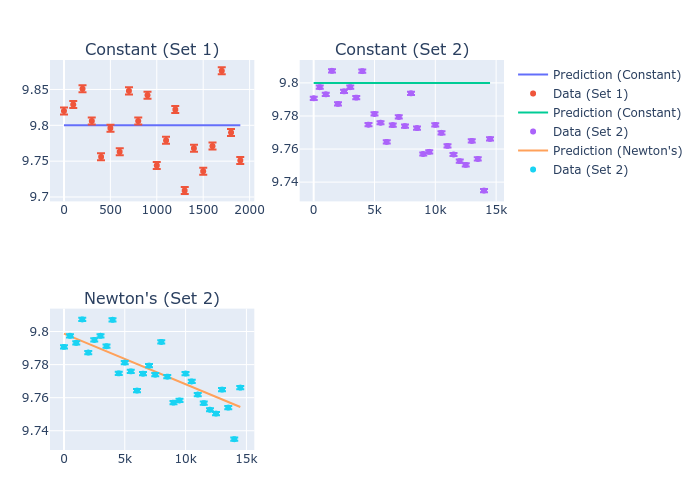
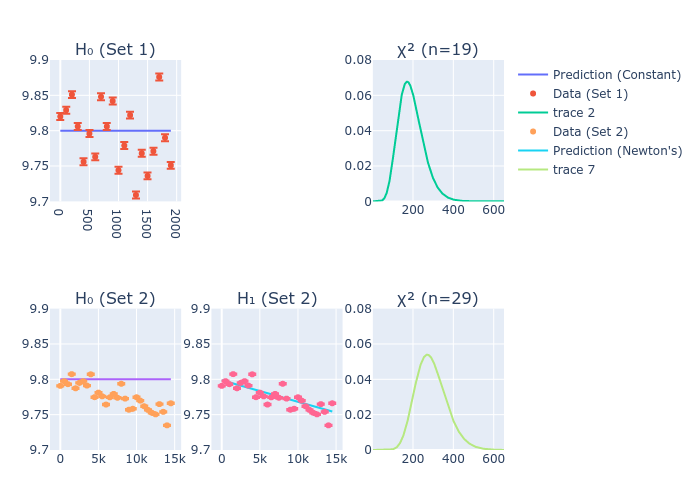
updated plots, included p-value calculations

diff --git a/Plots.html b/Plots.html
@@ -1,0 +1,34 @@
+<html>
+<head><meta charset="utf-8" /></head>
+<body>
+<div>
+    <script src="https://cdnjs.cloudflare.com/ajax/libs/mathjax/2.7.5/MathJax.js?config=TeX-AMS-MML_SVG"></script>
+    <script type="text/javascript">
+window.PlotlyConfig = {MathJaxConfig: 'local'};
+</script>
+<script src="https://cdn.plot.ly/plotly-2.3.0.min.js"></script>
+
+    <div
+        id=6b06be1f-e644-4db5-939f-64e952c01835
+        class="plotly-graph-div"
+        style="height:1300; width:4000;">
+    </div>
+    <script type="text/javascript">
+        
+        window.PLOTLYENV = window.PLOTLYENV || {}
+        
+        if (document.getElementById('6b06be1f-e644-4db5-939f-64e952c01835')) {
+    Plotly.newPlot(
+        '6b06be1f-e644-4db5-939f-64e952c01835',
+        [{"mode":"lines","xaxis":"x1","y":[9.8,9.8],"type":"scatter","name":"Prediction (Constant)","yaxis":"y1","x":[0,1900]},{"mode":"markers","xaxis":"x1","y":[9.82,9.829,9.851,9.806,9.756,9.796,9.763,9.848,9.806,9.842,9.744,9.779,9.822,9.709,9.768,9.736,9.771,9.876,9.79,9.751],"type":"scatter","name":"Data (Set 1)","error_y":{"value":0.05,"type":"percent"},"yaxis":"y1","x":[0.0,100.0,200.0,300.0,400.0,500.0,600.0,700.0,800.0,900.0,1000.0,1100.0,1200.0,1300.0,1400.0,1500.0,1600.0,1700.0,1800.0,1900.0]},{"xaxis":"x3","y":[0.0,3.4824694504627877e-17,1.199299228675849e-14,3.5808698151798195e-13,3.928738016355823e-12,2.4904249337928457e-11,1.1158333131341904e-10,3.934887415260198e-10,1.164525857213775e-9,3.014608037970877e-9,7.021902556967893e-9,1.5016817341355058e-8,2.99271900555026e-8,5.6212010768243693e-8,1.0038855553949409e-7,1.7165516671621406e-7,2.8260920702285104e-7,4.5005704205720893e-7,6.959103555192048e-7,1.0481607424239936e-6,1.5419224107725571e-6,2.220530990174214e-6,3.1366849221657225e-6,4.35361470539316e-6,5.946264393458557e-6,8.002469189761798e-6,1.062411274085707e-5,1.3928247780892881e-5,1.8048164103480483e-5,2.3134388409470496e-5,2.935560137299244e-5,3.689945825571903e-5,4.5973300551992536e-5,5.680474743651939e-5,6.964215718363162e-5,8.475495020540994e-5,0.00010243378688934146,0.0001229905949802892,0.0001467584428238048,0.00017409125634756378,0.00020536337918629181,0.00024096897683640548,0.000281321287145175,0.0003268517207830594,0.00037800881660648414,0.00043525705798311157,0.0004990755572159148,0.0005699566161609715,0.0006484041719835133,0.0007349321377353767,0.000830062648063996,0.0009343242208791732,0.0010482498462106222,0.0011723750137895565,0.0013072356910848253,0.0014533662636225283,0.0016112974494226905,0.001781554199302608,0.0019646535946298968,0.002161102753865057,0.002371396758919775,0.0025960166119799446,0.002835427233007621,0.0030900755076507564,0.0033603883947598686,0.0036467711021430462,0.0039496053385914345,0.004269247649582137,0.004606027843420544,0.0049602475139246234,0.005332178665085077,0.005722062442462563,0.006130107975410607,0.006556491333545235,0.007001354600223271,0.007464805065144442,0.007946914537561444,0.008447718780969369,0.008967217069554743,0.00950537186611659,0.010062108620629591,0.010637315688104684,0.011230844363916031,0.011842509034306966,0.012472087439361935,0.013119321045337255,0.013783915522880918,0.014465541327341555,0.015163834377068055,0.01587839682533492,0.016608797921293383,0.01735457495514399,0.018115234282552777,0.018890252423188838,0.01967907722814521,0.02048112911091759,0.02129580233655322,0.02212246636354713,0.02296046723305082,0.023809128999969724,0.024667755200559326,0.025535630351182566,0.02641202147296416,0.02729617963716761,0.028187341526226824,0.029084731005486735,0.02998756070084162,0.03089503357760821,0.03180634451612923,0.03272068187977164,0.033637229071161075,0.034555166072678715,0.03547367096743754,0.03639192143715135,0.03730909623350978,0.03822437661987603,0.03913694778032934,0.04004600019328077,0.04095073096709809,0.041850345135381516,0.04274405690973804,0.04363109088810442,0.04451068321687058,0.04538208270525192,0.04624455189055309,0.047097368053155425,0.04793982418024414,0.04877122987747218,0.04959091222793045,0.050398216597963195,0.05119250738952898,0.051973168738963564,0.05273960516215007,0.0534912421462443,0.05422752668823839,0.05494792778077513,0.055651936845746174,0.056339068116322014,0.05700885896816959,0.05766087020071295,0.05829468626938635,0.05890991546991514,0.05950619007573992,0.060083166429771614,0.060640524991731726,0.06117797034239175,0.06169523114607863,0.06219206007286092,0.06266823368187105,0.06312355226725463,0.06355783966826768,0.06397094304506655,0.06436273262175503,0.06473310139826692,0.06508196483267174,0.06540926049549634,0.06571494769765558,0.06599900709358145,0.06626144026113286,0.06650226925985706,0.06672153616915885,0.06691930260791656,0.06709564923706225,0.06725067524662047,0.06738449782867366,0.06749725163769377,0.0675890882396487,0.06766017555125993,0.06771069727075277,0.06774085230140481,0.06775085416916081,0.06774093043554298,0.06771132210704624,0.06766228304216713,0.06759407935717344,0.06750698883167922,0.06740130031504774,0.06727731313460154,0.06713533650657533,0.06697568895070459,0.06679869770929904,0.0666046981716071,0.06639403330423443,0.06616705308833672,0.06592411396426505,0.06566557828429996,0.06539181377406919,0.06510319300320372,0.0648000928657461,0.06448289407078706,0.06415198064376666,0.06380773943883995,0.06345055966266955,0.06308083240997267,0.06269895021111488,0.06230530659200934,0.06190029564654797,0.06148431162175879,0.06105774851585348,0.06062099968930018,0.06017445748902699,0.05971851288583598,0.05925355512507996,0.058779971390630084,0.058298146482138234,0.05780846250557496,0.05731129857700285,0.05680703053952339,0.05629603069331686,0.055778667538676004,0.055255305531916106,0.054726304854028955,0.054192021191931505,0.053652805532146235,0.05310900396673719,0.05256095751131197,0.05200900193488985,0.05145346760142423,0.05089467932275888,0.050332956222787974,0.049768611612581795,0.049201952876233246,0.048633281367173015,0.04806289231469624,0.047491074740438136,0.04691811138453158,0.04634427864117658,0.04576984650334775,0.04519507851636422,0.044620231740044446,0.0440455567191666,0.043471297461955626,0.042897691426316706,0.04232496951353592,0.04175335606916959,0.04118306889084457,0.04061431924269387,0.04004731187615377,0.039482245056850766,0.03891931059731001,0.03835869389521896,0.0378005739769845,0.037245123546324206,0.03669250903763703,0.036142890673902736,0.035596422528863164,0.03505325259324379,0.03451352284477781,0.033977369321800364,0.03344492220018578,0.032916305873404744,0.03239163903548499,0.031871034766663114,0.031354600621521345,0.03084243871940847,0.03033464583694918,0.029831313502452377,0.029332528092034002,0.0288383709272758,0.028348918374247512,0.02786424194372452,0.027384408392440017,0.026909479825215146,0.02643951379781689,0.02597456342039893,0.025514677461385707,0.02505990045166626,0.024610272788968848,0.02416583084229342,0.02372660705628407,0.023292630055428382,0.022863924747976577,0.022440512429477397,0.022022410885833305,0.021609634495782327,0.021202194332718197,0.020800098265765767,0.02040335106003265,0.020011954475962827,0.01962590736772235,0.019245205780551125,0.018869843047019542,0.018499809882132085,0.01813509447722443,0.0177756825926043,0.01742155764888971,0.017072700817002465,0.016729091106777484,0.01639070545415254,0.016057518806906076,0.01572950420891357,0.015406632882896648,0.015088874311641364,0.014776196317665377,0.01446856514131644,0.01416594551728682,0.013868300749531466,0.013575592784579508,0.013287782283231343,0.013004828690635843,0.012726690304743885,0.012453324343137152,0.012184687008232255,0.011920733550862778,0.011661418332243207,0.011406694884320348,0.011156515968519787,0.010910833632895876,0.0106695992676956,0.01043276365934793,0.010200277042891162,0.009972089152852515,0.009748149272594828,0.009528406282146462,0.00931280870453164,0.009101304750618898,0.008893842362506708,0.008690369255465607,0.008490832958457182,0.00829518085325089,0.008103360212160035,0.00791531823441915,0.007731002081225155,0.00755035890946533,0.007373335904155392,0.007199880309611519,0.00702993945938008,0.00686346080494948,0.006700391943268518,0.006540680643095825,0.006384274870205283,0.006231122811472087,0.006081172897864508,0.005934373826366245,0.0057906745808543126,0.00565002445195745,0.005512373055919801,0.005377670352494724,0.005245866661893391,0.005116912680812645,0.004990759497566659,0.004867358606346377,0.00474666192063094,0.004628621785774794,0.004513190990794049,0.004400322779375505,0.0042899708601312385,0.004182089416121668,0.004076633113669542,0.00397355711048698,0.0038728170631376186,0.0037743691338551957,0.003678169996739976,0.003584176843353838,0.003492347387734537,0.0034026398708494484,0.0033150130645084775,0.0032294262747557183,0.0031458393447589285,0.0030642126572155166,0.0029845071362935042,0.0029066842491253177,0.002830706006872104,0.002756534965375773,0.0026841342254155798,0.002613467432585796,0.0025444987768104476,0.0024771929915109116,0.0024115153524416643,0.0023474316762091183,0.0022849083184881937,0.002223912171950733,0.0021644106639196674,0.0021063717537623816,0.002049763930036359,0.0019945562073999095,0.0019407181233002974,0.0018882197344513556,0.001837031613112258,0.0017871248431787748,0.0017384710160980635,0.0016910422266176053,0.0016448110683786623,0.0015997506293642645,0.0015558344872114035,0.0015130367043968526,0.0014713318233056303,0.001430694861190914,0.001391101305033863,0.0013525271063115063,0.0013149486756806337,0.0012783428775852332,0.0012426870247948594,0.0012079588728809694,0.001174136614638022,0.0011411988744559106,0.0011091247026499707,0.0010778935697546368,0.0010474853607865399,0.001017880369482591,0.0009890592925184268,0.0009610032237122754,0.0009336936482191732,0.0009071124367201962,0.0008812418396111719,0.0008560644811951665,0.0008315633538827873,0.0008077218124042091,0.0007845235680366129,0.0007619526828505467,0.0007399935639785735,0.000718630957909349,0.000697849944810156,0.0006776359328807388,0.0006579746527411209,0.0006388521518559677,0.0006202547889978674,0.0006021692287517997,0.0005845824360629125,0.0005674816708295807,0.0005508544825436328,0.0005346887049794522,0.0005189724509335951,0.0005036941070164178,0.0004888423284971071,0.00047440603420341074,0.0004603744014772355,0.0004467368611872105,0.0004334830927992025,0.0004206030195056757,0.000408086803414721,0.00039592484079946166,0.000384107757408493,0.0003726264038379191,0.0003614718509654742,0.00035063538544716065,0.0003401085052767386,0.0003298829154083675,0.0003199505234426149,0.0003103034353759968,0.00030093395141416254,0.0002918345618487636,0.0002829979429980148,0.0002744169532108958,0.00026608462893489037,0.00025799418084713284,0.0002501389900487617,0.00024251260432226723,0.00023510873445156498,0.00022792125060449287,0.00022094417877740652,0.00021417169730149617,0.00020759813341043586,0.0002012179598689376,0.00019502579166175623,0.00018901638274267397,0.00018318462284295516,0.00017752553433875496,0.00017203426917693592,0.0001667061058587284,0.00016153644648066013,0.00015652081383215022,0.00015165484854916231,0.0001469343063232891,0.000142355055165628,0.00013791307272480408,0.00013360444365847284,0.0001294253570576387,0.00012537210392310965,0.00012144107469340195,0.00011762875682340678,0.000113931732413117,0.00011034667588571543,0.00010687035171431877,0.00010349961219666591,0.00010023139527704361,9.7062722414732e-5,9.399069649825912e-5,9.101249980474943e-5,8.812539200365077e-5,8.532670820413003e-5,8.261385704542118e-5,7.998431882941884e-5,7.743564369480867e-5,7.496544983202864e-5,7.257142173836264e-5,7.025130851246445e-5,6.800292218762118e-5,6.58241361030657e-5,6.371288331265281e-5,6.166715503022133e-5,5.9684999110965645e-5,5.776451856814982e-5,5.590387012450119e-5,5.4101262797626436e-5,5.2354956518802024e-5,5.0663260784493046e-5,4.90245333399659e-5,4.7437178894364654e-5,4.589964786662793e-5,4.4410435161633185e-5,4.296807897595819e-5,4.1571159632661574e-5,4.0218298444489106e-5,3.890815660492088e-5,3.763943410648384e-5,3.641086868575888e-5,3.522123479452288e-5,3.406934259647276e-5,3.2954036988985656e-5,3.187419664938046e-5,3.082873310515006e-5,2.9816589827645337e-5,2.8836741348698196e-5,2.788819239967939e-5,2.6969977072495993e-5,2.6081158002039783e-5,2.5220825569607613e-5,2.4388097126822153e-5,2.358211623958925e-5,2.2802051951637294e-5,2.2047098067190237e-5,2.1316472452335565e-5,2.060941635465549e-5,1.9925193740697445e-5,1.926309065086877e-5,1.8622414571346445e-5,1.800249382260216e-5,1.7402676964149617e-5,1.6822332215128497e-5,1.626084689034784e-5,1.5717626851417513e-5,1.5192095972605156e-5,1.4683695621062407e-5,1.4191884151071386e-5,1.3716136411970155e-5,1.325594326942156e-5,1.2810811139698067e-5,1.238026153666121e-5,1.196383063112094e-5,1.1561068822267573e-5,1.1171540320874214e-5,1.0794822743975228e-5,1.0430506720731967e-5,1.0078195509203196e-5,9.73750462374435e-6,9.408061472764867e-6,9.089505006579754e-6,8.781485375096738e-6,8.483663595086308e-6,8.19571122678794e-6,7.917310059610581e-6,7.648151806691838e-6,7.387937808085082e-6,7.136378742349124e-6,6.8931943463206206e-6,6.658113142853774e-6,6.430872176317659e-6,6.211216755645949e-6,5.99890020473867e-6,5.793683620020729e-6,5.595335634965942e-6,5.4036321914005126e-6,5.2183563174039455e-6,5.039297911629875e-6,4.866253533873767e-6,4.699026201718254e-6,4.5374251930914094e-6,4.3812658545770606e-6,4.230369415320211e-6,4.084562806374731e-6,3.9436784853438825e-6,3.8075542661683576e-6,3.6760331539199264e-6,3.5489631844623323e-6,3.426197268844798e-6,3.3075930422965304e-6,3.1930127176943155e-6,3.082322943378351e-6,2.975394665194676e-6,2.8721029926458155e-6,2.772327069034066e-6,2.675949945485068e-6,2.5828584587421056e-6,2.4929431126244013e-6,2.406097963045615e-6,2.322220506491226e-6,2.241211571856385e-6,2.162975215548269e-6,2.087418619759532e-6,2.014451993822016e-6,1.9439884785521328e-6,1.8759440535018528e-6,1.8102374470314618e-6,1.7467900491224818e-6,1.6855258268514512e-6,1.6263712424472297e-6,1.569255173856771e-6,1.514108837746213e-6,1.4608657148661805e-6,1.4094614777121683e-6,1.3598339204126631e-6,1.3119228907796279e-6,1.2656702244577036e-6,1.2210196811102383e-6,1.1779168825820338e-6,1.1363092529802555e-6,1.0961459606166839e-6,1.0573778617560198e-6,1.0199574461164918e-6,9.838387840705817e-7,9.489774754950452e-7,9.153306002209479e-7,8.828566700357535e-7,8.515155821908713e-7,8.212685743694393e-7,7.920781810703148e-7,7.639081913655841e-7,7.367236079900778e-7,7.104906077225631e-7,6.85176503019481e-7,6.607497048631569e-7,6.371796867875701e-7,6.144369500458011e-7,5.924929898843107e-7,5.713202628902498e-7,5.50892155378922e-7,5.311829527895355e-7,5.121678100582766e-7,4.938227229386464e-7,4.76124500239904e-7,4.5905073695527327e-7,4.425797882524476e-7,4.266907442997086e-7,4.113634059017646e-7,3.9657826092020305e-7,3.823164614541541e-7,3.6855980175752616e-7,3.5529069686985597e-7,3.424921619384991e-7,3.301477922105705e-7,3.1824174367365927e-7,3.0675871432499396e-7,2.9568392604935117e-7,2.8500310708654535e-7,2.747024750699931e-7,2.647687206183108e-7,2.5518899146253705e-7,2.4595087709203945e-7,2.370423939026874e-7,2.2845197083141282e-7],"type":"scatter","yaxis":"y3","x":[1,2,3,4,5,6,7,8,9,10,11,12,13,14,15,16,17,18,19,20,21,22,23,24,25,26,27,28,29,30,31,32,33,34,35,36,37,38,39,40,41,42,43,44,45,46,47,48,49,50,51,52,53,54,55,56,57,58,59,60,61,62,63,64,65,66,67,68,69,70,71,72,73,74,75,76,77,78,79,80,81,82,83,84,85,86,87,88,89,90,91,92,93,94,95,96,97,98,99,100,101,102,103,104,105,106,107,108,109,110,111,112,113,114,115,116,117,118,119,120,121,122,123,124,125,126,127,128,129,130,131,132,133,134,135,136,137,138,139,140,141,142,143,144,145,146,147,148,149,150,151,152,153,154,155,156,157,158,159,160,161,162,163,164,165,166,167,168,169,170,171,172,173,174,175,176,177,178,179,180,181,182,183,184,185,186,187,188,189,190,191,192,193,194,195,196,197,198,199,200,201,202,203,204,205,206,207,208,209,210,211,212,213,214,215,216,217,218,219,220,221,222,223,224,225,226,227,228,229,230,231,232,233,234,235,236,237,238,239,240,241,242,243,244,245,246,247,248,249,250,251,252,253,254,255,256,257,258,259,260,261,262,263,264,265,266,267,268,269,270,271,272,273,274,275,276,277,278,279,280,281,282,283,284,285,286,287,288,289,290,291,292,293,294,295,296,297,298,299,300,301,302,303,304,305,306,307,308,309,310,311,312,313,314,315,316,317,318,319,320,321,322,323,324,325,326,327,328,329,330,331,332,333,334,335,336,337,338,339,340,341,342,343,344,345,346,347,348,349,350,351,352,353,354,355,356,357,358,359,360,361,362,363,364,365,366,367,368,369,370,371,372,373,374,375,376,377,378,379,380,381,382,383,384,385,386,387,388,389,390,391,392,393,394,395,396,397,398,399,400,401,402,403,404,405,406,407,408,409,410,411,412,413,414,415,416,417,418,419,420,421,422,423,424,425,426,427,428,429,430,431,432,433,434,435,436,437,438,439,440,441,442,443,444,445,446,447,448,449,450,451,452,453,454,455,456,457,458,459,460,461,462,463,464,465,466,467,468,469,470,471,472,473,474,475,476,477,478,479,480,481,482,483,484,485,486,487,488,489,490,491,492,493,494,495,496,497,498,499,500,501,502,503,504,505,506,507,508,509,510,511,512,513,514,515,516,517,518,519,520,521,522,523,524,525,526,527,528,529,530,531,532,533,534,535,536,537,538,539,540,541,542,543,544,545,546,547,548,549,550,551,552,553,554,555,556,557,558,559,560,561,562,563,564,565,566,567,568,569,570,571,572,573,574,575,576,577,578,579,580,581,582,583,584,585,586,587,588,589,590,591,592,593,594,595,596,597,598,599,600,601,602,603,604,605,606,607,608,609,610,611,612,613,614,615,616,617,618,619,620,621,622,623,624,625,626,627,628,629,630,631,632,633,634,635,636,637,638,639,640,641,642,643,644,645,646,647,648,649,650,651]},{"showlegend":false,"mode":"lines","xaxis":"x4","y":[9.8,9.8],"type":"scatter","name":"Prediction (Constant)","yaxis":"y4","x":[0,14500]},{"mode":"markers","xaxis":"x4","y":[9.7907,9.7974,9.7931,9.8073,9.7873,9.7949,9.7974,9.7911,9.8071,9.7747,9.7812,9.7759,9.7643,9.7745,9.7794,9.7739,9.7937,9.7727,9.757,9.7583,9.7746,9.7698,9.7619,9.7567,9.7527,9.7504,9.7649,9.754,9.7349,9.7661],"type":"scatter","name":"Data (Set 2)","error_y":{"value":0.01,"type":"percent"},"yaxis":"y4","x":[0.0,500.0,1000.0,1500.0,2000.0,2500.0,3000.0,3500.0,4000.0,4500.0,5000.0,5500.0,6000.0,6500.0,7000.0,7500.0,8000.0,8500.0,9000.0,9500.0,10000.0,10500.0,11000.0,11500.0,12000.0,12500.0,13000.0,13500.0,14000.0,14500.0]},{"mode":"lines","xaxis":"x5","y":[9.798741705155923,9.754339479453902],"type":"scatter","name":"Prediction (Newton's)","yaxis":"y5","x":[0,14500]},{"showlegend":false,"mode":"markers","xaxis":"x5","y":[9.7907,9.7974,9.7931,9.8073,9.7873,9.7949,9.7974,9.7911,9.8071,9.7747,9.7812,9.7759,9.7643,9.7745,9.7794,9.7739,9.7937,9.7727,9.757,9.7583,9.7746,9.7698,9.7619,9.7567,9.7527,9.7504,9.7649,9.754,9.7349,9.7661],"type":"scatter","name":"Data (Set 2)","error_y":{"value":0.01,"type":"percent"},"yaxis":"y5","legendgroup":"group2","x":[0.0,500.0,1000.0,1500.0,2000.0,2500.0,3000.0,3500.0,4000.0,4500.0,5000.0,5500.0,6000.0,6500.0,7000.0,7500.0,8000.0,8500.0,9000.0,9500.0,10000.0,10500.0,11000.0,11500.0,12000.0,12500.0,13000.0,13500.0,14000.0,14500.0]},{"xaxis":"x6","y":[0.0,5.621896045206072e-29,6.195452450389611e-25,1.4047217320090823e-22,6.494541876023978e-21,1.2563740943506338e-19,1.400719163921311e-18,1.0676232092030096e-17,6.160196512082298e-17,2.8736832424724026e-16,1.1335750902163448e-15,3.904242812575035e-15,1.2021749310298004e-14,3.3693131563487634e-14,8.716053336961218e-14,2.1043049205158633e-13,4.783895840457717e-13,1.0315912834650594e-12,2.1228109543709723e-12,4.18978164599148e-12,7.965407422698748e-12,1.4640260615308805e-11,2.6096351650124964e-11,4.5236049114338686e-11,7.643564235822817e-11,1.2615938103110846e-10,2.0377687881622485e-10,3.226344961937668e-10,5.014396634828442e-10,7.660259952466065e-10,1.1515763859951268e-9,1.7053909527783662e-9,2.4902965742656106e-9,3.588804725491552e-9,5.108134167807519e-9,7.18622466039457e-9,9.998877041875889e-9,1.3768163613086812e-8,1.877226055890542e-8,2.5356861004140958e-8,3.394833303657902e-8,4.506879148777406e-8,5.935325528770185e-8,7.756906366429487e-8,1.0063772421948571e-7,1.2965936387287037e-7,1.6593994973431654e-7,2.110214410795658e-7,2.667150257110629e-7,3.3513758406467525e-7,4.1875151246877063e-7,5.204080229950335e-7,6.433940214023926e-7,7.914826468306116e-7,9.689875372337779e-7,1.1808208631616873e-6,1.432555149524097e-6,1.7304888805514177e-6,2.081715857455008e-6,2.4941982514643226e-6,2.976843267163104e-6,3.539583302560448e-6,4.193459463320453e-6,4.950708259250197e-6,5.8248512817274985e-6,6.830787631457862e-6,7.984888837006463e-6,9.305095976174866e-6,1.0811018684701729e-5,1.252403571017306e-5,1.4467396643635643e-5,1.6666324437415118e-5,1.9148118295232134e-5,2.1942256500063866e-5,2.5080498726475303e-5,2.8596987367493107e-5,3.252834739165198e-5,3.6913784233723185e-5,4.179517921294464e-5,4.721718196539437e-5,5.3227299372552224e-5,5.987598046613472e-5,6.721669678999158e-5,7.530601770324337e-5,8.420368011491205e-5,9.397265214903917e-5,0.00010467919025065425,0.00011639288925691804,0.0001291867249742369,0.00014313708882105923,0.00015832381411733085,0.00017483019362508103,0.0001927429879702435,0.00021215242460343483,0.00023315218698688779,0.0002558393937259308,0.0002803145673961357,0.00030668159285139834,0.00033504766483357507,0.0003655232247407044,0.0003982218864481546,0.0004332603511150092,0.0004707583109465437,0.0005108383419225037,0.0005536257855399193,0.0005992486196582408,0.0006478373185733874,0.000699524702485828,0.0007544457765657687,0.0008127375598558235,0.0008745389042880249,0.0009399903041275024,0.001009233696189537,0.00108241225120982,0.0011596701567794631,0.001241152392286588,0.001327004496334904,0.0014173723271366859,0.0015124018164026593,0.0016122387172746015,0.0017170283468678031,0.0018269153240098417,0.0019420433027794173,0.0020625547024641874,0.0021885904345695607,0.002320289627521379,0.0024577893497140877,0.0026012243315626273,0.0027507266872206977,0.0029064256366302687,0.003068447228567454,0.0032369140653477836,0.0034119450298500283,0.0035936550155116335,0.0037821546599408388,0.003977550082780718,0.004179942628448552,0.004389428614360517,0.004606099085236417,0.004830039574062356,0.0050613298702709185,0.0053000437956784935,0.005546248988698341,0.005800006697325366,0.006061371581365052,0.006330391524354254,0.006607107455595739,0.0068915531827019325,0.007183755235015812,0.0074837327182488604,0.007791497180647396,0.00810705249096929,0.008430394728523742,0.008761512085496765,0.009100384781755072,0.00944698499229101,0.00980127678744077,0.01016321608597828,0.010532750621157088,0.010909819919742924,0.011294355294050247,0.011686279846967088,0.012085508489924,0.01249194797373514,0.012905496932211729,0.013326045938422137,0.01375347757344613,0.014187666507446307,0.014628479592855195,0.015075775969452658,0.01552940718108672,0.0159892173037682,0.016455043084850005,0.016926714092981913,0.017404052878513186,0.01788687514399854,0.018374989924445948,0.01886819977693043,0.019366300979183508,0.01986908373675503,0.020376332398333155,0.020887825678796466,0.0214033368895642,0.02192263417580118,0.022445480760027316,0.022971635191676002,0.02350085160213978,0.02403287996483903,0.024567466359845955,0.025104353242594475,0.02564327971620678,0.0261839818069665,0.026726192742470983,0.027269643231996737,0.027814061748615414,0.028359174812602476,0.0289047072756846,0.029450382605678938,0.02999592317108296,0.030541050525181388,0.031085485689245077,0.03162894943440479,0.03217116256179303,0.03271184618055645,0.033250721983352154,0.03378751251895266,0.034321941461595194,0.03485373387672374,0.03538261648278426,0.03590831790874634,0.03643056894703814,0.03694910280159433,0.0374636553307308,0.037973965284574085,0.03847977453678661,0.038980828310344745,0.039476875397139136,0.03996766837118299,0.04045296379522747,0.04093252242059796,0.04140610938008033,0.04187349437369967,0.04233445184724917,0.04278876116344124,0.04323620676556614,0.043676578333559174,0.04410967093238944,0.044535285152698584,0.04495322724363018,0.045363309237804426,0.04576534906840546,0.04615917067836123,0.046544604121608796,0.04692148565644949,0.04728965783101026,0.04764896956083964,0.04799927619867675,0.04834043959644367,0.04867232815952127,0.04899481689337864,0.04930778744263621,0.04961112812265173,0.04990473394372701,0.05018850662804224,0.05046235461943208,0.0507261930861263,0.05097994391658398,0.051223535708558005,0.05145690375153257,0.05167999000268247,0.05189274305650894,0.05209511810831147,0.05228707691166046,0.052468587730039574,0.052639625282831004,0.052800170685820304,0.05295021138640093,0.0530897410936614,0.05321875970354065,0.05333727321923926,0.053445293667076205,0.05354283900798207,0.053629933044821054,0.0537066053257348,0.05377289104370169,0.0538288309325053,0.053874471159305895,0.053909863214008126,0.05393506379561786,0.05395013469577968,0.0539551426796858,0.053950159364545607,0.053935261095803176,0.05391052882128859,0.053876047963486356,0.053831908290102364,0.053778203783107874,0.05371503250643665,0.053642496472508454,0.053560701507748734,0.053469757117271775,0.05336977634889073,0.05326087565661461,0.05314317476378892,0.05301679652603282,0.05288186679412165,0.05273851427696025,0.05258687040478812,0.05242706919275341,0.052259247104989116,0.05208354291931977,0.051900097592723786,0.05170905412767119,0.05151055743945321,0.05130475422461507,0.0510917928305994,0.05087182312670326,0.05064499637644725,0.050411465111450844,0.050171383006904095,0.049924904758720696,0.04967218596245418,0.04941338299405347,0.04914865289253106,0.048878153244611595,0.048602042071425496,0.04832047771730744,0.04803361874075584,0.04774162380760493,0.047444651586458,0.047142860646425165,0.04683640935720649,0.0465254557915565,0.04621015763016291,0.04589067206896898,0.04556715572896461,0.0452397645684687,0.04490865379792132,0.04457397779720097,0.04423589003547963,0.04389454299362407,0.04355008808915011,0.043202675603732484,0.04285245461327076,0.04249957292050877,0.04214417699020269,0.04178641188682931,0.04142642121482515,0.041064347061343126,0.040700329941512084,0.04033450874618232,0.0399670206921374,0.03959800127475138,0.03922758422306804,0.03885590145727728,0.03848308304856176,0.038109257181285515,0.03773455011749424,0.037359086163696285,0.03698298763989077,0.036606374850809496,0.03622936605933637,0.03585207746206841,0.03547462316698031,0.035097115173154066,0.034719663352534416,0.03434237543366909,0.033965356987393364,0.03358871141441673,0.033212539934769324,0.03283694157906539,0.03246201318153986,0.03208784937481446,0.03171454258634923,0.03134218303653444,0.03097085873837888,0.030600655498748904,0.03023165692111357,0.02986394440975075,0.029497597175368834,0.029132692242099457,0.028769304455815665,0.02840750649373111,0.028047368875235398,0.0276889599739211,0.02733234603075854,0.026977591168374025,0.02662475740638831,0.02627390467777196,0.025925090846174857,0.025578371724187702,0.025233801092493353,0.024891430719866842,0.024551310383983244,0.024213487892992953,0.023878009107824952,0.023544917965178644,0.02321425650116593,0.022886064875565725,0.022560381396653447,0.022237242546569447,0.021916683007189908,0.02159873568646557,0.021283431745193634,0.020970800624189052,0.020660870071822535,0.02035366617189264,0.02004921337180069,0.019747534510997793,0.019448650849673732,0.019152582097658955,0.01885934644351067,0.01856896058375577,0.01828143975226347,0.01799679774972149,0.017715046973190613,0.017436198445712675,0.017160261845948377,0.01688724553782172,0.016617156600148644,0.01635000085622864,0.016085782903377886,0.015824506142384395,0.01556617280686544,0.015310783992508691,0.015058339686179338,0.014808838794875653,0.014562279174516714,0.014318657658546457,0.01407797008633875,0.013840211331389336,0.013605375329280536,0.013373455105405743,0.013144442802441196,0.012918329707553076,0.01269510627932888,0.012474762174422163,0.012257286273900787,0.012042666709289242,0.011830890888295958,0.011621945520217591,0.011415816641012199,0.011212489638034274,0.01101194927442484,0.010814179713150362,0.010619164540684949,0.010426886790330367,0.010237328965169292,0.010050473060647477,0.009866300586780896,0.009684792589984658,0.009505929674520465,0.009329692023560184,0.009156059419863315,0.008985011266066496,0.00881652660458378,0.00865058413711638,0.008487162243771341,0.008326239001788697,0.008167792203876981,0.008011799376157487,0.00785823779571766,0.007707084507774547,0.007558316342449396,0.007411909931154751,0.0072678417225957755,0.007126087998387501,0.00698662488829027,0.00684942838506563,0.006714474358955184,0.00658173857178528,0.006451196690700287,0.006322824301527723,0.0061965969217784595,0.006072490013285449,0.005950478994484675,0.0058305392523419425,0.005712646153929516,0.005596775057656575,0.005482901324157608,0.0053710003268431115,0.005261047462116794,0.005153018159263848,0.005046887890014829,0.004942632177789692,0.004840226606626836,0.004739646829801752,0.004640868578140239,0.004543867668031029,0.004448620009142729,0.004355101611850162,0.0042632885943749985,0.004173157189645812,0.004084683751882625,0.003997844762910997,0.003912616838210859,0.0038289767327051214,0.003746901346293244,0.0036663677291349016,0.003587353086688831,0.003509834784512083,0.0034337903528246626,0.003359197490844768,0.0032860340708996635,0.003214278142317226,0.0031439079351032904,0.003074901863409684,0.003007238528798023,0.002940896723304166,0.0028758554323082427,0.002812093837215159,0.0027495913179503505,0.0026883274552756044,0.0026282820329296885,0.0025694350395984466,0.0025117666707190614,0.0024552573301229942,0.0023998876315221964,0.0023456383998430538,0.002292490672412461,0.002240425700000463,0.0021894249477236753,0.002139470095813803,0.002090543040255416,0.002042625893297084,0.0019957009838399964,0.0019497508577079698,0.0019047582778028568,0.0018607062241491796,0.0018175778938317865,0.0017753567008303133,0.001734026275754049,0.0016935704654808634,0.0016539733327037068,0.001615219155388146,0.0015772924261443673,0.0015401778515169392,0.0015038603511956293,0.0014683250571504716,0.001433557312694197,0.00139954267147514,0.0013662668964035587,0.0013337159585143524,0.001301876035769023,0.0012707335117996743,0.0012402749745978239,0.0012104872151506487,0.0011813572260273128,0.0011528721999179085,0.0011250195281274837,0.0010977867990276064,0.0010711617964677838,0.0010451324981490615,0.0010196870739620355,0.0009948138842914335,0.0009705014782894246,0.0009467385921196702,0.0009235141471741472,0.0009008172482646852,0.0008786371817910905,0.0008569634138877213,0.0008357855885502599,0.0008150935257444285,0.0007948772194983201,0.0007751268359799527,0.000755832711561642,0.0007369853508726828,0.0007185754248418318,0.0007005937687310065,0.0006830313801615679,0.0006658794171345355,0.0006491291960459907,0.0006327721896989235,0.0006168000253127116,0.0006012044825313724,0.0005859774914317182,0.0005711111305324504,0.0005565976248052427,0.000542429343688787,0.0005285987991067484,0.0005150986434905501,0.0005019216678078423,0.0004890607995975036,0.0004765091010119707,0.0004642597668676562,0.0004523061227042028,0.00044064162285324904,0.0004292598485173917,0.000418154505859972,0.00040731942410628737,0.0003967485536568159,0.00038643596421298194,0.00037637584291599316,0.0003665624924992353,0.0003569903294546838,0.0003476538822137799,0.0003385477893431711,0.00032966679775571077,0.0003210057609370809,0.0003125596371883723,0.0003043234878849516,0.00029629247575189787,0.0002884618631562948,0.00028082701041662854,0.0002733833741295236,0.0002661265055140432,0.0002590520487737365,0.00025215573947662333,0.00024543340295327375,0.00023888095271312637,0.00023249438887917975,0.00022626979664116303,0.00022020334472728806,0.0002142912838946668,0.0002085299454384596,0.00020291573971981756,0.0001974451547126525,0.00019211475456927266,0.00018692117820489837,0.0001818611379010644,0.0001769314179279087,0.0001721288731853259,0.00016745042786296522,0.00016289307411903586,0.00015845387077787382,0.000154129942046221,0.00014991847624814872,0.00014581672457855872,0.00014182199987518317,0.00013793167540899557,0.00013414318369294427,0.00013045401530890316,0.00012686171775273792,0.00012336389429737374,0.00011995820287374555,0.00011664235496951113,0.00011341411454539301,0.0001102712969690196,0.00010721176796612583,0.0001042334425889702,0.000101334284201824,9.85123034833787e-5,9.576555744592028e-5,9.309214847111233e-5,9.049022336222613e-5,8.795797241265773e-5,8.549362849056191e-5,8.309546613943759e-5,8.076180069449298e-5,7.849098741461717e-5,7.62814206297859e-5,7.413153290372202e-5,7.203979421163566e-5,7.000471113286398e-5,6.802482605822982e-5,6.609871641194018e-5,6.422499388783977e-5,6.240230369983898e-5,6.062932384633238e-5,5.890476438842357e-5,5.7227366741774074e-5,5.559590298189018e-5,5.400917516266415e-5,5.246601464798814e-5,5.096528145625165e-5,4.950586361754576e-5,4.808667654338411e-5,4.670666240876316e-5,4.53647895463776e-5,4.406005185280735e-5,4.279146820650042e-5],"type":"scatter","yaxis":"y6","x":[1,2,3,4,5,6,7,8,9,10,11,12,13,14,15,16,17,18,19,20,21,22,23,24,25,26,27,28,29,30,31,32,33,34,35,36,37,38,39,40,41,42,43,44,45,46,47,48,49,50,51,52,53,54,55,56,57,58,59,60,61,62,63,64,65,66,67,68,69,70,71,72,73,74,75,76,77,78,79,80,81,82,83,84,85,86,87,88,89,90,91,92,93,94,95,96,97,98,99,100,101,102,103,104,105,106,107,108,109,110,111,112,113,114,115,116,117,118,119,120,121,122,123,124,125,126,127,128,129,130,131,132,133,134,135,136,137,138,139,140,141,142,143,144,145,146,147,148,149,150,151,152,153,154,155,156,157,158,159,160,161,162,163,164,165,166,167,168,169,170,171,172,173,174,175,176,177,178,179,180,181,182,183,184,185,186,187,188,189,190,191,192,193,194,195,196,197,198,199,200,201,202,203,204,205,206,207,208,209,210,211,212,213,214,215,216,217,218,219,220,221,222,223,224,225,226,227,228,229,230,231,232,233,234,235,236,237,238,239,240,241,242,243,244,245,246,247,248,249,250,251,252,253,254,255,256,257,258,259,260,261,262,263,264,265,266,267,268,269,270,271,272,273,274,275,276,277,278,279,280,281,282,283,284,285,286,287,288,289,290,291,292,293,294,295,296,297,298,299,300,301,302,303,304,305,306,307,308,309,310,311,312,313,314,315,316,317,318,319,320,321,322,323,324,325,326,327,328,329,330,331,332,333,334,335,336,337,338,339,340,341,342,343,344,345,346,347,348,349,350,351,352,353,354,355,356,357,358,359,360,361,362,363,364,365,366,367,368,369,370,371,372,373,374,375,376,377,378,379,380,381,382,383,384,385,386,387,388,389,390,391,392,393,394,395,396,397,398,399,400,401,402,403,404,405,406,407,408,409,410,411,412,413,414,415,416,417,418,419,420,421,422,423,424,425,426,427,428,429,430,431,432,433,434,435,436,437,438,439,440,441,442,443,444,445,446,447,448,449,450,451,452,453,454,455,456,457,458,459,460,461,462,463,464,465,466,467,468,469,470,471,472,473,474,475,476,477,478,479,480,481,482,483,484,485,486,487,488,489,490,491,492,493,494,495,496,497,498,499,500,501,502,503,504,505,506,507,508,509,510,511,512,513,514,515,516,517,518,519,520,521,522,523,524,525,526,527,528,529,530,531,532,533,534,535,536,537,538,539,540,541,542,543,544,545,546,547,548,549,550,551,552,553,554,555,556,557,558,559,560,561,562,563,564,565,566,567,568,569,570,571,572,573,574,575,576,577,578,579,580,581,582,583,584,585,586,587,588,589,590,591,592,593,594,595,596,597,598,599,600,601,602,603,604,605,606,607,608,609,610,611,612,613,614,615,616,617,618,619,620,621,622,623,624,625,626,627,628,629,630,631,632,633,634,635,636,637,638,639,640,641,642,643,644,645,646,647,648,649,650,651]}],
+        {"xaxis1":{"domain":[0.0,0.2888888888888889],"anchor":"y1"},"template":{"layout":{"coloraxis":{"colorbar":{"ticks":"","outlinewidth":0}},"xaxis":{"gridcolor":"white","zerolinewidth":2,"title":{"standoff":15},"ticks":"","zerolinecolor":"white","automargin":true,"linecolor":"white"},"hovermode":"closest","paper_bgcolor":"white","geo":{"showlakes":true,"showland":true,"landcolor":"#E5ECF6","bgcolor":"white","subunitcolor":"white","lakecolor":"white"},"colorscale":{"sequential":[[0.0,"#0d0887"],[0.1111111111111111,"#46039f"],[0.2222222222222222,"#7201a8"],[0.3333333333333333,"#9c179e"],[0.4444444444444444,"#bd3786"],[0.5555555555555556,"#d8576b"],[0.6666666666666666,"#ed7953"],[0.7777777777777778,"#fb9f3a"],[0.8888888888888888,"#fdca26"],[1.0,"#f0f921"]],"diverging":[[0,"#8e0152"],[0.1,"#c51b7d"],[0.2,"#de77ae"],[0.3,"#f1b6da"],[0.4,"#fde0ef"],[0.5,"#f7f7f7"],[0.6,"#e6f5d0"],[0.7,"#b8e186"],[0.8,"#7fbc41"],[0.9,"#4d9221"],[1,"#276419"]],"sequentialminus":[[0.0,"#0d0887"],[0.1111111111111111,"#46039f"],[0.2222222222222222,"#7201a8"],[0.3333333333333333,"#9c179e"],[0.4444444444444444,"#bd3786"],[0.5555555555555556,"#d8576b"],[0.6666666666666666,"#ed7953"],[0.7777777777777778,"#fb9f3a"],[0.8888888888888888,"#fdca26"],[1.0,"#f0f921"]]},"yaxis":{"gridcolor":"white","zerolinewidth":2,"title":{"standoff":15},"ticks":"","zerolinecolor":"white","automargin":true,"linecolor":"white"},"shapedefaults":{"line":{"color":"#2a3f5f"}},"hoverlabel":{"align":"left"},"mapbox":{"style":"light"},"polar":{"angularaxis":{"gridcolor":"white","ticks":"","linecolor":"white"},"bgcolor":"#E5ECF6","radialaxis":{"gridcolor":"white","ticks":"","linecolor":"white"}},"autotypenumbers":"strict","font":{"color":"#2a3f5f"},"ternary":{"baxis":{"gridcolor":"white","ticks":"","linecolor":"white"},"bgcolor":"#E5ECF6","caxis":{"gridcolor":"white","ticks":"","linecolor":"white"},"aaxis":{"gridcolor":"white","ticks":"","linecolor":"white"}},"annotationdefaults":{"arrowhead":0,"arrowwidth":1,"arrowcolor":"#2a3f5f"},"plot_bgcolor":"#E5ECF6","title":{"x":0.05},"scene":{"xaxis":{"gridcolor":"white","gridwidth":2,"backgroundcolor":"#E5ECF6","ticks":"","showbackground":true,"zerolinecolor":"white","linecolor":"white"},"zaxis":{"gridcolor":"white","gridwidth":2,"backgroundcolor":"#E5ECF6","ticks":"","showbackground":true,"zerolinecolor":"white","linecolor":"white"},"yaxis":{"gridcolor":"white","gridwidth":2,"backgroundcolor":"#E5ECF6","ticks":"","showbackground":true,"zerolinecolor":"white","linecolor":"white"}},"colorway":["#636efa","#EF553B","#00cc96","#ab63fa","#FFA15A","#19d3f3","#FF6692","#B6E880","#FF97FF","#FECB52"]},"data":{"barpolar":[{"type":"barpolar","marker":{"line":{"color":"#E5ECF6","width":0.5}}}],"carpet":[{"aaxis":{"gridcolor":"white","endlinecolor":"#2a3f5f","minorgridcolor":"white","startlinecolor":"#2a3f5f","linecolor":"white"},"type":"carpet","baxis":{"gridcolor":"white","endlinecolor":"#2a3f5f","minorgridcolor":"white","startlinecolor":"#2a3f5f","linecolor":"white"}}],"scatterpolar":[{"type":"scatterpolar","marker":{"colorbar":{"ticks":"","outlinewidth":0}}}],"parcoords":[{"line":{"colorbar":{"ticks":"","outlinewidth":0}},"type":"parcoords"}],"scatter":[{"type":"scatter","marker":{"colorbar":{"ticks":"","outlinewidth":0}}}],"histogram2dcontour":[{"colorbar":{"ticks":"","outlinewidth":0},"type":"histogram2dcontour","colorscale":[[0.0,"#0d0887"],[0.1111111111111111,"#46039f"],[0.2222222222222222,"#7201a8"],[0.3333333333333333,"#9c179e"],[0.4444444444444444,"#bd3786"],[0.5555555555555556,"#d8576b"],[0.6666666666666666,"#ed7953"],[0.7777777777777778,"#fb9f3a"],[0.8888888888888888,"#fdca26"],[1.0,"#f0f921"]]}],"contour":[{"colorbar":{"ticks":"","outlinewidth":0},"type":"contour","colorscale":[[0.0,"#0d0887"],[0.1111111111111111,"#46039f"],[0.2222222222222222,"#7201a8"],[0.3333333333333333,"#9c179e"],[0.4444444444444444,"#bd3786"],[0.5555555555555556,"#d8576b"],[0.6666666666666666,"#ed7953"],[0.7777777777777778,"#fb9f3a"],[0.8888888888888888,"#fdca26"],[1.0,"#f0f921"]]}],"scattercarpet":[{"type":"scattercarpet","marker":{"colorbar":{"ticks":"","outlinewidth":0}}}],"mesh3d":[{"colorbar":{"ticks":"","outlinewidth":0},"type":"mesh3d"}],"surface":[{"colorbar":{"ticks":"","outlinewidth":0},"type":"surface","colorscale":[[0.0,"#0d0887"],[0.1111111111111111,"#46039f"],[0.2222222222222222,"#7201a8"],[0.3333333333333333,"#9c179e"],[0.4444444444444444,"#bd3786"],[0.5555555555555556,"#d8576b"],[0.6666666666666666,"#ed7953"],[0.7777777777777778,"#fb9f3a"],[0.8888888888888888,"#fdca26"],[1.0,"#f0f921"]]}],"scattermapbox":[{"type":"scattermapbox","marker":{"colorbar":{"ticks":"","outlinewidth":0}}}],"scattergeo":[{"type":"scattergeo","marker":{"colorbar":{"ticks":"","outlinewidth":0}}}],"histogram":[{"type":"histogram","marker":{"colorbar":{"ticks":"","outlinewidth":0}}}],"pie":[{"type":"pie","automargin":true}],"choropleth":[{"colorbar":{"ticks":"","outlinewidth":0},"type":"choropleth"}],"heatmapgl":[{"colorbar":{"ticks":"","outlinewidth":0},"type":"heatmapgl","colorscale":[[0.0,"#0d0887"],[0.1111111111111111,"#46039f"],[0.2222222222222222,"#7201a8"],[0.3333333333333333,"#9c179e"],[0.4444444444444444,"#bd3786"],[0.5555555555555556,"#d8576b"],[0.6666666666666666,"#ed7953"],[0.7777777777777778,"#fb9f3a"],[0.8888888888888888,"#fdca26"],[1.0,"#f0f921"]]}],"bar":[{"type":"bar","error_y":{"color":"#2a3f5f"},"error_x":{"color":"#2a3f5f"},"marker":{"line":{"color":"#E5ECF6","width":0.5}}}],"heatmap":[{"colorbar":{"ticks":"","outlinewidth":0},"type":"heatmap","colorscale":[[0.0,"#0d0887"],[0.1111111111111111,"#46039f"],[0.2222222222222222,"#7201a8"],[0.3333333333333333,"#9c179e"],[0.4444444444444444,"#bd3786"],[0.5555555555555556,"#d8576b"],[0.6666666666666666,"#ed7953"],[0.7777777777777778,"#fb9f3a"],[0.8888888888888888,"#fdca26"],[1.0,"#f0f921"]]}],"contourcarpet":[{"colorbar":{"ticks":"","outlinewidth":0},"type":"contourcarpet"}],"table":[{"type":"table","header":{"line":{"color":"white"},"fill":{"color":"#C8D4E3"}},"cells":{"line":{"color":"white"},"fill":{"color":"#EBF0F8"}}}],"scatter3d":[{"line":{"colorbar":{"ticks":"","outlinewidth":0}},"type":"scatter3d","marker":{"colorbar":{"ticks":"","outlinewidth":0}}}],"scattergl":[{"type":"scattergl","marker":{"colorbar":{"ticks":"","outlinewidth":0}}}],"histogram2d":[{"colorbar":{"ticks":"","outlinewidth":0},"type":"histogram2d","colorscale":[[0.0,"#0d0887"],[0.1111111111111111,"#46039f"],[0.2222222222222222,"#7201a8"],[0.3333333333333333,"#9c179e"],[0.4444444444444444,"#bd3786"],[0.5555555555555556,"#d8576b"],[0.6666666666666666,"#ed7953"],[0.7777777777777778,"#fb9f3a"],[0.8888888888888888,"#fdca26"],[1.0,"#f0f921"]]}],"scatterternary":[{"type":"scatterternary","marker":{"colorbar":{"ticks":"","outlinewidth":0}}}],"scatterpolargl":[{"type":"scatterpolargl","marker":{"colorbar":{"ticks":"","outlinewidth":0}}}]}},"yaxis4":{"range":[9.7,9.9],"domain":[5.551115123125783e-17,0.36250000000000004],"anchor":"x4"},"height":1300,"yaxis2":{"domain":[0.6375,1.0],"anchor":"x2"},"xaxis3":{"domain":[0.7111111111111111,1.0],"anchor":"y3"},"yaxis3":{"range":[0.0,0.08],"domain":[0.6375,1.0],"anchor":"x3"},"yaxis5":{"range":[9.7,9.9],"domain":[5.551115123125783e-17,0.36250000000000004],"anchor":"x5"},"xaxis4":{"domain":[0.0,0.2888888888888889],"anchor":"y4"},"yaxis1":{"range":[9.7,9.9],"domain":[0.6375,1.0],"anchor":"x1"},"annotations":[{"yanchor":"bottom","xanchor":"center","y":1.0,"font":{"size":16},"showarrow":false,"yref":"paper","text":"H₀ (Set 1)","xref":"paper","x":0.14444444444444446},{"yanchor":"bottom","xanchor":"center","y":1.0,"font":{"size":16},"showarrow":false,"yref":"paper","text":"χ² (n=19)","xref":"paper","x":0.8555555555555556},{"yanchor":"bottom","xanchor":"center","y":0.36250000000000004,"font":{"size":16},"showarrow":false,"yref":"paper","text":"H₀ (Set 2)","xref":"paper","x":0.14444444444444446},{"yanchor":"bottom","xanchor":"center","y":0.36250000000000004,"font":{"size":16},"showarrow":false,"yref":"paper","text":"H₁ (Set 2)","xref":"paper","x":0.5},{"yanchor":"bottom","xanchor":"center","y":0.36250000000000004,"font":{"size":16},"showarrow":false,"yref":"paper","text":"χ² (n=29)","xref":"paper","x":0.8555555555555556}],"yaxis6":{"range":[0.0,0.08],"domain":[5.551115123125783e-17,0.36250000000000004],"anchor":"x6"},"title":{"text":""},"xaxis2":{"domain":[0.35555555555555557,0.6444444444444445],"anchor":"y2"},"xaxis6":{"domain":[0.7111111111111111,1.0],"anchor":"y6"},"margin":{"l":50,"b":50,"r":50,"t":60},"xaxis5":{"domain":[0.35555555555555557,0.6444444444444445],"anchor":"y5"},"width":4000},
+        {"editable":false,"responsive":true,"staticPlot":false,"scrollZoom":true},
+    )
+}
+
+        
+    </script>
+</div>
+
+</body>
+</html>

diff --git a/README.md b/README.md
@@ -19,7 +19,7 @@ $$\begin{align*}
 \end{align*}$$
 
 1. $H_0$: Acelleration due to gravity is constant at all heights.
-2. $H_a$: Acelleration due to gravity is not constant at all heights.
+2. $H_1$: Acelleration due to gravity is not constant at all heights.
 
 ---
 
@@ -58,7 +58,7 @@ $$\begin{align*}
 & &&R_{earth}=6.378\times10^6
 \end{align*}$$
 
-### $H_a$ (Dataset 2):
+### $H_1$ (Dataset 2):
 ```
 (pvalueArgs.getArgs     ) Found argument list:  Namespace(chsq=0.2843, ndof=29)
 (pvalueArgs.getArguments) Assigning arguments to program variables
@@ -74,3 +74,7 @@ Observed chi-squared p-value of 100.0 % (q-value =  0.0 %)
 ![](https://github.com/phsx315-sp23/assignment4-Mamba-Grant/blob/main/Plots.png)
 
 ---
+
+$$c\left(w\right)=\frac{w^{\frac{D_{freedom}}{2}-1}e^{-\frac{w}{2}}}{2^{\frac{D_{freedom}}{2}}\cdot\left(\frac{D_{freedom}}{2}-1\right)!}\ \left\{w\ge0\right\}$$
+
+$$p=\operatorname{round}\left(1-\int_{0}^{\chi^2}c(x)\ dx,6\right)$$
